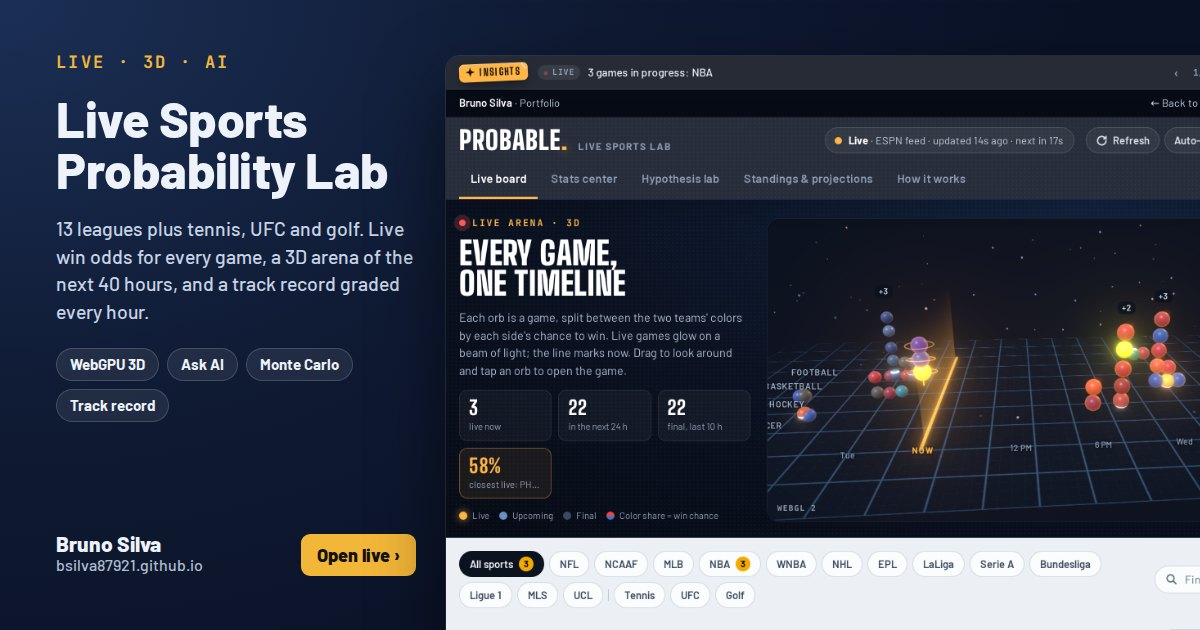
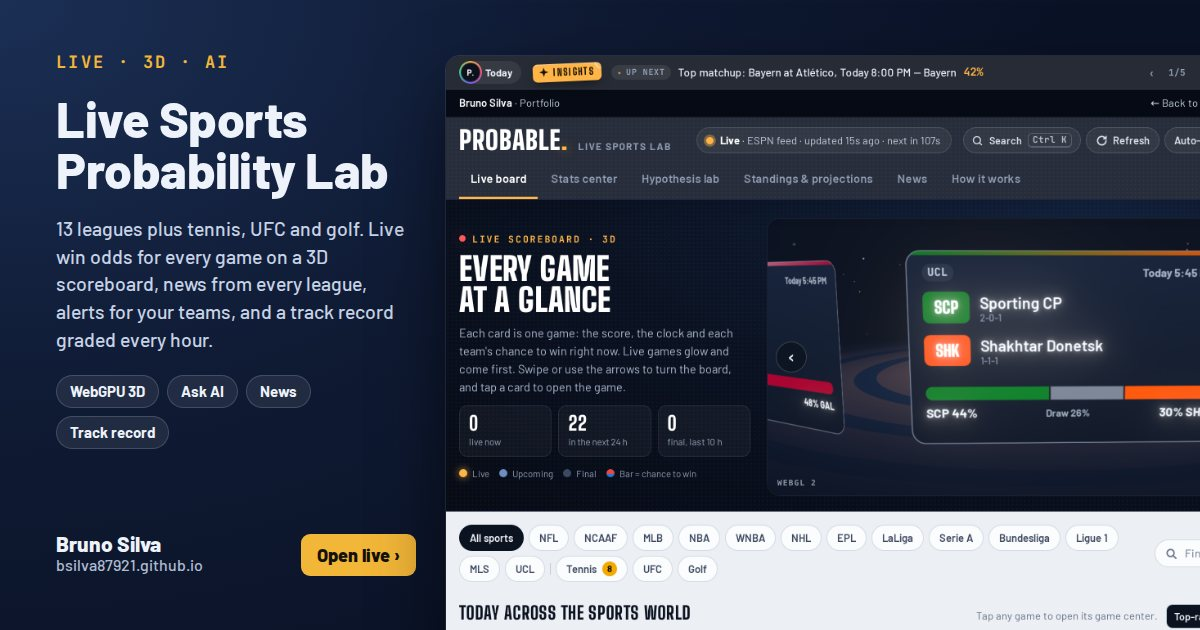
Portfolio cards and preview images for the new 3D views and news; news source cleanup
The three Probable cards describe the scoreboard carousel, the market skyline, news, follows,
search, the briefing and share cards, with fresh 1200x630 previews captured from the live sites.
The news job drops the IMF (rate-limits automated readers) and Yahoo Finance (feeds retired).

Claude-Session: https://claude.ai/code/session_01QYVjjs6ajd4XF2EEJuS4cJ

diff --git a/index.html b/index.html
@@ -533,9 +533,9 @@
         </div>
 
         <div class="project-card project-featured">
-          <a class="project-shot" href="probable-atlas/finance/" aria-label="Open Probable Atlas: Finance & Markets"><img src="probable-atlas/finance/preview.jpg" alt="Probable Atlas Finance: a 3D terrain of the US Treasury yield curve since 1990 beside the Finance masthead, under the pinned Insights bar" width="1200" height="630" loading="lazy"></a>
+          <a class="project-shot" href="probable-atlas/finance/" aria-label="Open Probable Atlas: Finance & Markets"><img src="probable-atlas/finance/preview.jpg" alt="Probable Atlas Finance: a 3D market skyline of the day's moves, gains rising in green and losses sinking in red, beside the Finance masthead under the pinned Insights bar" width="1200" height="630" loading="lazy"></a>
           <div class="project-body">
-            <span class="project-badge">New · Live markets · 3D · AI analyst</span>
+            <span class="project-badge">New · Live markets · 3D skyline · News · AI analyst</span>
             <h3><a class="project-title-link" href="probable-atlas/finance/">Probable Atlas: Finance &amp; Markets</a></h3>
             <p>
               Module 2 of Probable Atlas. It tracks 61 funds, indexes, futures and crypto plus 34 Federal Reserve rate,
@@ -544,10 +544,13 @@
               volatility and value-at-risk that passes Kupiec and Christoffersen backtests since 2000, a hidden Markov
               regime model, a Shiller CAPE expected-return regression, correction-risk logistic models that report their
               modest skill honestly, and a trend rule tested back to 1927. A portfolio lab builds an efficient frontier,
-              runs Monte Carlo retirement plans, replays ten historical sell-offs and conditional shock scenarios. A 3D terrain
-              of the Treasury yield curve since 1990 (three.js WebGPU) heads the page, a pinned Insights bar flags what
-              matters today, an Ask AI chat answers questions from the same data and models (with Claude using them as
-              tools), and the Atlas suite installs as an app on phones and desktops.
+              runs Monte Carlo retirement plans, replays ten historical sell-offs and conditional shock scenarios. A 3D market
+              skyline of the day's moves (three.js WebGPU) heads the page and a pinned Insights bar flags what matters today.
+              A News tab gathers headlines from the Federal Reserve, the ECB and major outlets by topic; followed markets
+              trigger alerts on big moves and 52-week highs or lows; search covers every market, chart and headline; a
+              story-style daily briefing and share cards make the numbers easy to pass along; and an Ask AI chat answers
+              questions from the same data and models (with Claude using them as tools). The Atlas suite installs as an app
+              on phones and desktops.
             </p>
             <div class="project-tags">
               <span class="tag">Quantitative Finance</span>
@@ -570,7 +573,7 @@
         <div class="project-card project-featured">
           <a class="project-shot" href="probable-atlas/" aria-label="Open Probable Atlas: Economics"><img src="probable-atlas/preview.jpg" alt="Probable Atlas Economics: a 3D globe with a spike for each country&#39;s 2026 GDP growth beside the Economics masthead, under the pinned Insights bar" width="1200" height="630" loading="lazy"></a>
           <div class="project-body">
-            <span class="project-badge">Live data · 3D globe · AI analyst</span>
+            <span class="project-badge">Live data · 3D globe · News · AI analyst</span>
             <h3><a class="project-title-link" href="probable-atlas/">Probable Atlas: Economics</a></h3>
             <p>
               Module 1 of Probable Atlas, a series of world-domain dashboards built on the Sports Lab engine. It covers
@@ -581,8 +584,10 @@
               Monte Carlo growth and debt fans, and k-means economic archetypes. A what-if lab re-runs the models on
               your inputs, and a recommendation engine uses a panel regression of 328 country-decades to rank
               improvements, each with its evidence, an impact range, trade-offs and a confidence level. A 3D data globe
-              with a spike per country leads the page, a pinned Insights bar tracks the readings that matter now, and an
-              Ask AI chat answers questions about any economy, the forecasts and US what-if scenarios. Economics and
+              with a spike per country leads the page, a pinned Insights bar tracks the readings that matter now, a News tab
+              follows growth, inflation, jobs, central banks and trade (and the country in view), followed countries get
+              alerts on new forecasts and headlines, and an Ask AI chat answers questions about any economy, the forecasts
+              and US what-if scenarios. Economics and
               Finance install together as the Probable Atlas app, with App Store and Google Play builds ready.
             </p>
             <div class="project-tags">
@@ -634,9 +639,9 @@
         </div>
 
         <div class="project-card project-featured">
-          <a class="project-shot" href="live-sports-lab/" aria-label="Open Probable: Live Sports Lab"><img src="live-sports-lab/preview.jpg" alt="Probable Live Sports Lab: the 3D live arena with every game on one timeline, each orb split by win probability, under the pinned Insights bar" width="1200" height="630" loading="lazy"></a>
+          <a class="project-shot" href="live-sports-lab/" aria-label="Open Probable: Live Sports Lab"><img src="live-sports-lab/preview.jpg" alt="Probable Live Sports Lab: the 3D scoreboard carousel of game cards with each team's live chance to win, under the pinned Insights bar" width="1200" height="630" loading="lazy"></a>
           <div class="project-body">
-            <span class="project-badge">Live · 3D arena · AI analyst</span>
+            <span class="project-badge">Live · 3D scoreboard · News · AI analyst</span>
             <h3><a class="project-title-link" href="live-sports-lab/">Probable: Live Sports Lab</a></h3>
             <p>
               A live multi-sport analytics dashboard: real-time scores across 13 leagues plus tennis, UFC
@@ -647,9 +652,11 @@
               advanced metrics (wRC+, FIP−, usage, ANY/A, GSAA, tennis Elo, strokes gained, UFC striking rates),
               a composite power index, chart and heat-map views on every table, and full championship
               histories: titles, finals and playoff berths for every franchise, Grand Slams, majors and UFC title reigns.
-              Version 2.0 adds a 3D live arena of every game in a 40-hour window (three.js WebGPU), a pinned Insights bar,
-              an Ask AI analyst that runs what-ifs and coaching calls, a public track record graded hourly without
-              look-ahead, and an installable app with App Store and Google Play builds ready.
+              Version 3.0 adds a 3D scoreboard carousel of every live and upcoming game (three.js WebGPU), a News tab for
+              every league, followed teams with alerts when their games start, tighten and end, search across teams, games
+              and headlines, a story-style daily briefing and share cards. It keeps the pinned Insights bar, an Ask AI
+              analyst that runs what-ifs and coaching calls, a public track record graded hourly without look-ahead, and an
+              installable app with App Store and Google Play builds ready.
             </p>
             <div class="project-tags">
               <span class="tag">JavaScript</span>

diff --git a/probable-atlas/index.html b/probable-atlas/index.html
@@ -4452,7 +4452,7 @@ const EX = (() => {
   const myIsos = () => FAV.list('cty:').map(f => f.key.slice(4)).filter(iso => E.BYISO[iso]);
   NEWS.init({
     url: [NEWS_URL], embed: 'ATLAS_NEWS', title: 'Economy news',
-    lede: 'Growth, inflation, jobs, central banks and trade around the world, with official releases from the Fed, the ECB, BEA, BLS and the IMF, newest first.',
+    lede: 'Growth, inflation, jobs, central banks and trade around the world, with official releases from the Federal Reserve, the ECB and BEA, newest first.',
     empty: 'Headlines are on their way: the news job refreshes about every half hour.',
     topics: () => {
       const T = [], sc = STATE.scope;

diff --git a/probable-atlas/source/src/econ-x.js b/probable-atlas/source/src/econ-x.js
@@ -49,7 +49,7 @@ const EX = (() => {
   const myIsos = () => FAV.list('cty:').map(f => f.key.slice(4)).filter(iso => E.BYISO[iso]);
   NEWS.init({
     url: [NEWS_URL], embed: 'ATLAS_NEWS', title: 'Economy news',
-    lede: 'Growth, inflation, jobs, central banks and trade around the world, with official releases from the Fed, the ECB, BEA, BLS and the IMF, newest first.',
+    lede: 'Growth, inflation, jobs, central banks and trade around the world, with official releases from the Federal Reserve, the ECB and BEA, newest first.',
     empty: 'Headlines are on their way: the news job refreshes about every half hour.',
     topics: () => {
       const T = [], sc = STATE.scope;

diff --git a/probable-atlas/pipeline/fetch_news.py b/probable-atlas/pipeline/fetch_news.py
@@ -17,13 +17,14 @@ PREV = os.environ.get('PREV_DIR', 'prev')
 UA = 'ProbableNews/1.0 (portfolio project; +https://bsilva87921.github.io/)'
 NOW = datetime.now(timezone.utc)
 
-# id, publisher, url, kind (official | outlet), topics the whole feed belongs to
+# id, publisher, url (or a list of addresses to try in order), kind (official | outlet), topics the whole feed belongs to.
+# Left out: BLS (refuses automated readers without a contact address), the IMF (rate-limits automated readers)
+# and Yahoo Finance (its feeds were retired).
 ATLAS_FEEDS = [
     ('fed-press', 'Federal Reserve', 'https://www.federalreserve.gov/feeds/press_all.xml', 'official', ['fed', 'policy']),
     ('fed-speech', 'Federal Reserve', 'https://www.federalreserve.gov/feeds/speeches.xml', 'official', ['fed', 'policy']),
     ('ecb', 'European Central Bank', 'https://www.ecb.europa.eu/rss/press.xml', 'official', ['global', 'policy']),
     ('bea', 'BEA', 'https://apps.bea.gov/rss/rss.xml', 'official', ['growth', 'data']),
-    ('imf', 'IMF', ['https://www.imf.org/en/News/RSS?Language=ENG', 'https://www.imf.org/en/news/rss', 'https://www.imf.org/en/Blogs/rss?language=eng'], 'official', ['global']),
     ('cnbc-econ', 'CNBC', 'https://www.cnbc.com/id/20910258/device/rss/rss.html', 'outlet', ['growth']),
     ('cnbc-top', 'CNBC', 'https://www.cnbc.com/id/100003114/device/rss/rss.html', 'outlet', []),
     ('cnbc-fin', 'CNBC', 'https://www.cnbc.com/id/10000664/device/rss/rss.html', 'outlet', ['markets']),
@@ -41,7 +42,6 @@ ATLAS_FEEDS = [
     ('ft-mkt', 'Financial Times', 'https://www.ft.com/markets?format=rss', 'outlet', ['markets']),
     ('bbc-biz', 'BBC', 'https://feeds.bbci.co.uk/news/business/rss.xml', 'outlet', []),
     ('guardian-econ', 'The Guardian', 'https://www.theguardian.com/business/economics/rss', 'outlet', ['growth']),
-    ('yahoo-fin', 'Yahoo Finance', ['https://finance.yahoo.com/rss/topstories', 'https://finance.yahoo.com/news/rss', 'https://finance.yahoo.com/news/rssindex'], 'outlet', ['markets']),
     ('sa-currents', 'Seeking Alpha', 'https://seekingalpha.com/market_currents.xml', 'outlet', ['markets', 'stocks']),
     ('coindesk', 'CoinDesk', 'https://www.coindesk.com/arc/outboundfeeds/rss/', 'outlet', ['crypto']),
 ]

diff --git a/probable-atlas/README.md b/probable-atlas/README.md
@@ -12,7 +12,7 @@ A series of world-domain analytics dashboards by Bruno Silva, built on the appro
 - **3D masthead.** Economics: a data globe of 11,000 land points with a spike per country for GDP growth, inflation, unemployment or debt (tap a country to open its profile). Finance: a market skyline, one tower per major market (S&P 500, Nasdaq, Russell 2000, Dow, Europe, Japan, the 10-year yield, the dollar, gold, oil, bitcoin and the VIX) that rises in green for a gain and sinks in red for a loss, sized by the day's move and labeled with it; tap a tower for that market's chart. Phones show the six that matter most. Built with three.js `WebGPURenderer` (WebGPU, falling back to WebGL2 automatically, and to the plain masthead when neither is available); it sleeps off screen and has a **Still** switch. Reduced-motion settings are respected.
 - **Insights bar.** A pinned bar at the top that rotates through the readings that matter now (recession odds, nowcast, inflation path, Fed vs the Taylor rule, regime, correction risk, volatility, the curve, valuation, biggest mover). Click one to jump to it, or ask about it. It pauses on hover and can be stepped through by keyboard.
 - **Ask AI.** See below.
-- **News.** A News tab per module with the latest headlines from official sources (the Federal Reserve, the ECB, BEA, BLS, the IMF) and major outlets (CNBC, MarketWatch, the Financial Times, Yahoo Finance, Investing.com, the BBC, the Guardian, Seeking Alpha, CoinDesk), filtered by topic (markets, Fed and rates, earnings, commodities, crypto, currencies, the economy, official releases; in Economics also growth, inflation, jobs, trade and the country in view), with search, "What it means" (asks Ask AI) and share. Live now shows the latest five; each market or country profile lists recent headlines about it. Refreshed twice an hour by `.github/workflows/news.yml` (`pipeline/fetch_news.py`).
+- **News.** A News tab per module with the latest headlines from official sources (the Federal Reserve, the ECB and BEA) and major outlets (CNBC, MarketWatch, the Financial Times, Investing.com, the BBC, the Guardian, Seeking Alpha, CoinDesk), filtered by topic (markets, Fed and rates, earnings, commodities, crypto, currencies, the economy, official releases; in Economics also growth, inflation, jobs, trade and the country in view), with search, "What it means" (asks Ask AI) and share. Live now shows the latest five; each market or country profile lists recent headlines about it. Refreshed twice an hour by `.github/workflows/news.yml` (`pipeline/fetch_news.py`).
 - **Follow markets and countries.** Star any market or country in its profile: it shows under *Your markets* or *Your countries* on Live now, leads the search, gets a News filter and triggers alerts (Finance: big daily moves and 52-week highs or lows; Economics: new IMF forecasts and fresh headlines). Alerts show in the page and, once turned on, as notifications.
 - **Search everything.** `⌘K` / `Ctrl K` or `/`: markets and rates, countries, indicators, US series, sections, charts, headlines and actions, with recent picks and an Ask AI fallback.
 - **Today's briefing.** The ring at the left of the Insights bar opens story-style slides with the day's key readings and charts, your markets or countries first, and the top headline; tap to advance, hold to pause, or have it read aloud.
